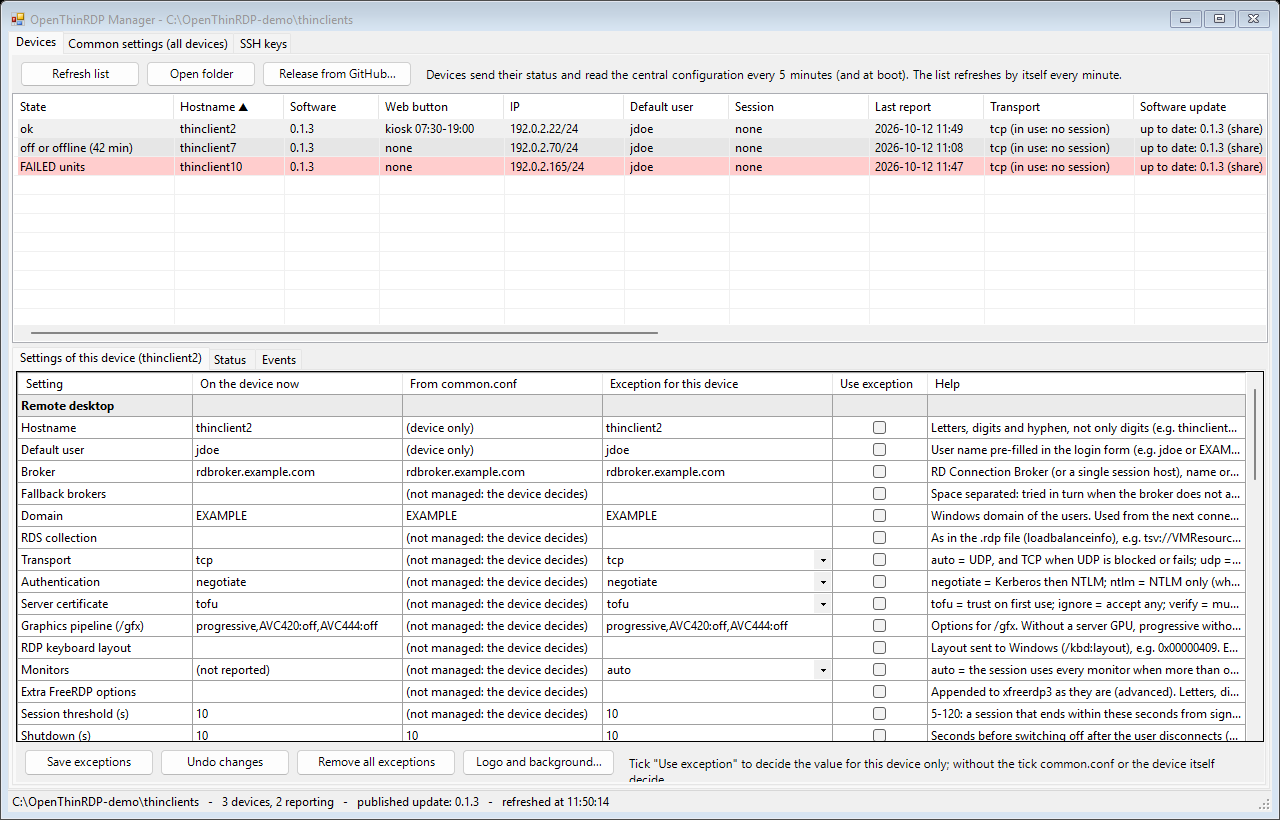
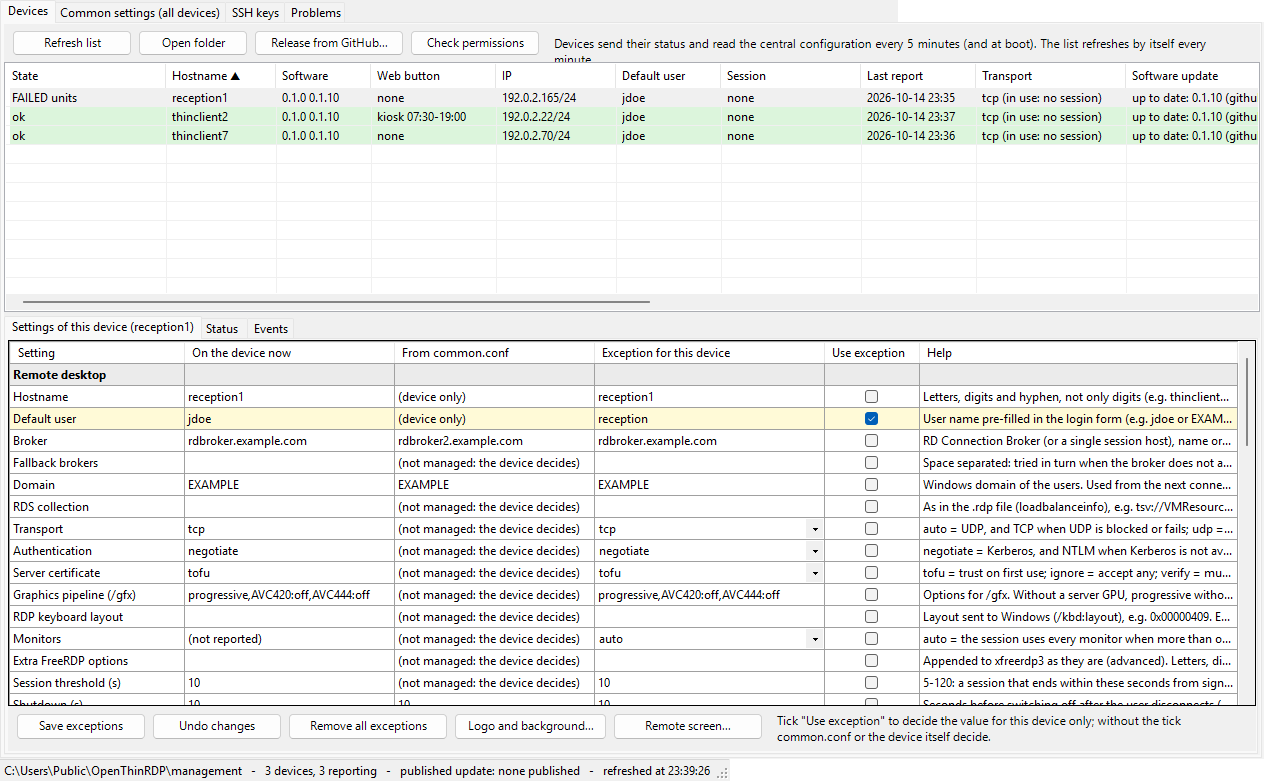
Docs: the manager and the remote screen
README: the manager gets a section of its own (every device at a glance,
settings for all or one, remote screen, problems, branding, keys, releases),
with a new screenshot of the manager and one of the remote screen in the
browser (demo data). management.md: Remote screen (needs, how it works, notice,
when it does not start); security.md; configuration.md and the manager:
REMOTE_SCREEN; changelog; noVNC in the license note.

Refs #19

diff --git a/README.it.md b/README.it.md
@@ -18,9 +18,10 @@ per Desktop remoto Windows, RDS e VDI: FreeRDP con il trasporto UDP che la versi
 
 OpenThinRDP trasforma piccoli PC e vecchi thin client in postazioni che si accendono direttamente sul form di
 accesso e si collegano a Windows: tramite il broker RDS al desktop o alla VM dell'utente, oppure direttamente a
-un host di sessione o a qualsiasi PC Windows con Desktop remoto attivo. Si gestiscono da una cartella condivisa:
-stato di ogni postazione, configurazione centrale, logo, aggiornamenti firmati. Niente agenti, niente server di
-gestione, niente cloud, nessuna licenza per postazione.
+un host di sessione o a qualsiasi PC Windows con Desktop remoto attivo. Si gestiscono da una cartella condivisa con un
+piccolo gestore Windows: stato di ogni postazione, configurazione centrale, logo, aggiornamenti firmati, e lo schermo
+di qualsiasi postazione nel browser. Niente agenti, niente server di gestione, niente cloud, nessuna licenza per
+postazione.
 
 È nato da una migrazione reale da un sistema thin client commerciale, su un parco di Dell OptiPlex 3000 Thin
 Client collegati a una VDI Windows 11 su Hyper-V, dove il sistema da cui deriva lavora ogni giorno.
@@ -125,10 +126,9 @@ Cosa serve al dispositivo: [Requisiti](#requisiti).
   mouse, touch, hub e schede di rete restano locali; i lettori di smart card passano dal canale smart card.
   I touch screen funzionano come touch in Windows. Con `USB_MODE=disks` le chiavette USB restano sul thin client e
   compaiono in Windows come unità.
-- **Gestione da una cartella condivisa (SMB).** Ogni postazione ci scrive stato e registro eventi; un gestore
-  Windows (italiano e inglese, nessuna installazione) li mostra, modifica la configurazione di tutte o di una
-  postazione, le chiavi SSH, logo e immagine di sfondo (per tutte o per una), e porta nella cartella le release di
-  GitHub. Le impostazioni della cartella vincono sulle modifiche locali.
+- **Gestione da una cartella condivisa (SMB) con un gestore Windows**, senza server: tutto il parco in una finestra,
+  impostazioni per tutte le postazioni o per una, e lo **schermo remoto** di qualsiasi postazione
+  ([il gestore](#il-gestore-tutto-il-parco-in-una-finestra)).
 - **Aggiornamenti firmati** che non interrompono mai una sessione: dalle release di GitHub (controllate ogni 3
   ore, installati in background, applicati quando la sessione finisce), o dalla vostra cartella quando decidete voi. Gli aggiornamenti di sicurezza Debian si installano da soli.
 - **Configurazione sulla postazione** (anche protetta da PIN): broker o PC, rete (DHCP, statica, Wi-Fi), cartella
@@ -145,15 +145,39 @@ Cosa serve al dispositivo: [Requisiti](#requisiti).
 - Interfaccia in italiano e inglese; altre lingue sono un file ciascuna.
 
 <p align="center">
-<img src="docs/screenshots/manager-devices.png" alt="Gestore: postazioni" width="49%">
-<img src="docs/screenshots/manager-common.png" alt="Gestore: impostazioni comuni" width="49%">
-</p>
-
-<p align="center">
 <img src="docs/screenshots/connecting.png" alt="Avvio del desktop con i passi reali" width="32%">
 <img src="docs/screenshots/end-of-session.png" alt="Fine sessione con conto alla rovescia" width="32%">
 <img src="docs/screenshots/update.png" alt="Aggiornamento in corso" width="32%">
 </p>
+
+## Il gestore: tutto il parco in una finestra
+
+`OpenThinRDP-Manager` è un solo script PowerShell per Windows 10/11 (italiano e inglese, niente da installare) che
+lavora sulla cartella condivisa in cui le postazioni scrivono il loro stato. Niente server, agenti o database: quello
+che si vede sono i file della cartella.
+
+<p align="center">
+<img src="docs/screenshots/manager-devices.png" alt="Gestore: ogni postazione, le sue impostazioni e il pulsante Schermo remoto" width="49%">
+<img src="docs/screenshots/remote-screen.png" alt="Schermo remoto di una postazione nel browser, con l'avviso sulla postazione" width="49%">
+</p>
+
+- **Ogni postazione a colpo d'occhio**: stato (un problema è colorato), versione del software e di FreeRDP,
+  indirizzo, utente e sessione, UDP o TCP in uso, segnale Wi-Fi, ultimo rapporto, stato ed eventi della postazione.
+- **Impostazioni per tutte le postazioni o per una**: quelle comuni ed eccezioni per una sola postazione, controllate
+  prima di salvarle (una postazione rifiuta tutta la configurazione se c'è un valore sbagliato: il gestore lo ferma
+  prima).
+- **Schermo remoto**: con un clic lo schermo di una postazione si apre nel browser e si può usare, per aiutare un
+  utente ("cosa c'è scritto?") o per accedere una volta a una dashboard su uno schermo della hall. Passa solo da SSH,
+  con la chiave degli amministratori e una password monouso: niente di nuovo in ascolto sulla rete e niente da
+  installare sul PC (lo `ssh.exe` di Windows e il browser). La postazione mostra *Assistenza remota attiva* finché
+  dura e lo registra nei suoi eventi; finisce chiudendo la finestra, o da sola dopo 2 ore, e `REMOTE_SCREEN=off` la
+  spegne ([dettagli](docs/management.md#remote-screen)).
+- **Problemi di tutto il parco**: i registri eventi di tutte le postazioni letti insieme e raggruppati, così "sei
+  postazioni stamattina non raggiungevano il broker" è una riga invece di sei registri.
+- **Logo e immagine di sfondo**, per tutte o per una; **chiavi SSH** degli amministratori; **release** di GitHub
+  copiate nella cartella per le postazioni che si aggiornano da lì; un **controllo dei permessi** della cartella.
+
+Ogni modifica finisce in un registro delle modifiche nella cartella. Guida: [docs/management.md](docs/management.md).
 
 ## Schermi che mostrano solo una pagina web
 
@@ -272,6 +296,7 @@ vedi [SECURITY.md](SECURITY.md). Come contribuire: [CONTRIBUTING.md](CONTRIBUTIN
 
 ## Licenza
 
-Apache License 2.0, vedi [LICENSE](LICENSE). OpenThinRDP usa FreeRDP (Apache 2.0) e pacchetti Debian con le loro
+Apache License 2.0, vedi [LICENSE](LICENSE). OpenThinRDP usa FreeRDP (Apache 2.0), il visore noVNC dello schermo remoto
+(incluso senza modifiche, MPL 2.0 e BSD, [rootfs/opt/openthinrdp/novnc](rootfs/opt/openthinrdp/novnc)) e pacchetti Debian con le loro
 licenze. Windows e Desktop remoto sono marchi di Microsoft; il progetto non è affiliato a Microsoft né ai
 produttori citati.

diff --git a/README.md b/README.md
@@ -18,8 +18,9 @@ for Windows Remote Desktop, RDS and VDI: FreeRDP with the UDP transport that ups
 
 OpenThinRDP turns small PCs and old thin clients into kiosks that boot straight into a sign-in form and connect
 to Windows: through an RD Connection Broker to the user's desktop or VM, or straight to a session host or to any
-Windows PC with Remote Desktop turned on. They are managed from a shared folder: status of every device, central
-settings, logo, signed updates. No agent, no management server, no cloud, no licence per device.
+Windows PC with Remote Desktop turned on. They are managed from a shared folder with a small Windows manager: status
+of every device, central settings, logo, signed updates, and the screen of any device in your browser. No agent,
+no management server, no cloud, no licence per device.
 
 It grew out of a real migration away from a commercial thin client OS, on a fleet of Dell OptiPlex 3000 Thin
 Clients connected to a Windows 11 VDI on Hyper-V, where the system it comes from runs every day.
@@ -121,10 +122,8 @@ What the device needs: [Requirements](#requirements).
   touch screens, hubs and network adapters stay local; smart card readers go through the smart card channel.
   Touch screens work as touch in Windows. With `USB_MODE=disks` USB sticks stay on the thin client and appear in
   Windows as drives.
-- **Managed from a shared folder (SMB).** Each device writes its status and event log there; a Windows manager
-  (English and Italian, no installation) shows them, edits the settings for all devices or one, the SSH keys,
-  logo and background picture (for all devices or one), and brings GitHub releases into the folder. Settings that come
-  from the folder win over local changes.
+- **Managed from a shared folder (SMB) with a Windows manager**, no server: the whole fleet in one window, settings
+  for all devices or one, and the **remote screen** of any device ([the manager](#the-manager-the-whole-fleet-from-one-window)).
 - **Signed updates** that never interrupt a session: from GitHub releases (checked every 3 hours, installed in
   the background, applied when the session is over), or from your folder when you decide.
   Debian security updates install by themselves.
@@ -142,15 +141,37 @@ What the device needs: [Requirements](#requirements).
 - English and Italian interface; more languages are one file each.
 
 <p align="center">
-<img src="docs/screenshots/manager-devices.png" alt="Manager: devices" width="49%">
-<img src="docs/screenshots/manager-common.png" alt="Manager: settings for all devices" width="49%">
-</p>
-
-<p align="center">
 <img src="docs/screenshots/connecting.png" alt="Desktop start with the real steps" width="32%">
 <img src="docs/screenshots/end-of-session.png" alt="End of session with a countdown" width="32%">
 <img src="docs/screenshots/update.png" alt="Software update in progress" width="32%">
 </p>
+
+## The manager: the whole fleet from one window
+
+`OpenThinRDP-Manager` is one PowerShell script for Windows 10/11 (English and Italian, nothing to install) that works
+on the shared folder the devices report to. No server, no agent, no database: what you see is the files in the folder.
+
+<p align="center">
+<img src="docs/screenshots/manager-devices.png" alt="Manager: every device, its settings and the Remote screen button" width="49%">
+<img src="docs/screenshots/remote-screen.png" alt="Remote screen of a device in the browser, with the notice on the device" width="49%">
+</p>
+
+- **Every device at a glance**: state (a problem in colour), software and FreeRDP version, address, user and session,
+  UDP or TCP in use, Wi-Fi signal, last report, the device's own status and event log.
+- **Settings for all devices or one**: the common settings, and exceptions for a single device, checked before they
+  are saved (a device rejects a whole configuration with a wrong value, the manager stops it first).
+- **Remote screen**: one click shows the screen of a device in your browser and lets you use it, to help a user
+  ("what does it say?") or to sign in once to a dashboard on a hall screen. It goes through SSH only, with the
+  administrators' key and a one-time password: nothing new listens on the network, and nothing is installed on your
+  PC (the `ssh.exe` that comes with Windows and your browser). The device shows *Remote assistance active* while it
+  lasts and records it in its events; it ends when you close the window, or by itself after 2 hours, and
+  `REMOTE_SCREEN=off` turns it off ([details](docs/management.md#remote-screen)).
+- **Problems across the fleet**: the event logs of every device read together and grouped, so "six devices could not
+  reach the broker this morning" is one line instead of six logs.
+- **Logo and background picture**, for all devices or one; **SSH keys** of the administrators; **releases** from
+  GitHub copied into the folder for devices that update from it; a **permissions check** of the folder.
+
+Every change is written to a change log in the folder. Guide: [docs/management.md](docs/management.md).
 
 ## Screens that only show a web page
 
@@ -264,6 +285,7 @@ Security problems: please report them privately, see [SECURITY.md](SECURITY.md).
 
 ## License
 
-Apache License 2.0, see [LICENSE](LICENSE). OpenThinRDP uses FreeRDP (Apache 2.0) and Debian packages under
+Apache License 2.0, see [LICENSE](LICENSE). OpenThinRDP uses FreeRDP (Apache 2.0), the noVNC viewer for the remote
+screen (included unmodified, MPL 2.0 and BSD, [rootfs/opt/openthinrdp/novnc](rootfs/opt/openthinrdp/novnc)) and Debian packages under
 their own licenses. Windows and Remote Desktop are trademarks of Microsoft; this project is not affiliated with
 Microsoft or with any vendor named above.

diff --git a/docs/management.md b/docs/management.md
@@ -133,6 +133,37 @@ With `SSH=on`, the `otradmin` account accepts only the keys in `/etc/openthinrdp
 (`image/site/authorized_keys`) or from `config\authorized_keys`. Removing `config\authorized_keys` after it
 was used revokes those keys and brings back the image ones.
 
+## Remote screen
+
+*Device settings > Remote screen...* shows the screen of the selected device in your browser and lets you use it:
+to see what a user sees, or to sign in once to a web page on a screen with no keyboard (the kiosk page keeps the
+sign-in in its profile).
+
+**What it needs**
+- On the device: `SSH=on`, your public key among the SSH keys, and `REMOTE_SCREEN=on` (the default).
+- On your PC: the OpenSSH client of Windows 10/11 (`ssh.exe`, an optional feature that is usually there) with your
+  private key in your user folder (`%USERPROFILE%\.ssh`), and a browser. Nothing else is installed.
+
+**How it works**
+1. Over SSH, as `otradmin`, the manager asks the device to start the remote screen (`remote-screen.sh start`). The
+   device starts x11vnc on its screen and the noVNC viewer with a small WebSocket bridge (`vncbridge.py`), both on
+   127.0.0.1 only and as the account that owns the screen, not root, with a one-time password.
+2. The manager opens an SSH tunnel from a free port of your PC to the viewer and opens your browser on it with that
+   password. The screen is reached only through the tunnel: nothing new listens on the network.
+3. While it is on, the device shows *Remote assistance active: an administrator can see this screen* in the top
+   right corner, and its event log records the start and the end.
+4. Closing the small window in the manager ends it on the device (`remote-screen.sh stop`); it also ends by itself
+   after 2 hours.
+
+During a remote session the screen is the Windows desktop the user is working on: tell the user, as the notice does.
+`REMOTE_SCREEN=off`, for all devices or one, turns it off. The viewer is noVNC 1.7.0, included unmodified
+(`/opt/openthinrdp/novnc`, MPL 2.0 and BSD licenses).
+
+**When it does not start** the manager shows why: SSH off on the device, no address reported yet, the key not
+accepted (put it in the SSH keys tab and in `%USERPROFILE%\.ssh`), or a device that has not received the version
+with the remote screen yet. A device reinstalled with the same address has a new SSH host key: remove the old one
+with `ssh-keygen -R <address>`.
+
 ## Signed updates
 
 Software updates (kiosk, FreeRDP with UDP, fixes) come from where `UPDATE_FROM` says:

diff --git a/CHANGELOG.md b/CHANGELOG.md
@@ -3,6 +3,18 @@
 Every release, newest first. **Security** marks what every device should get at once.
 Downloads and signed update packages: [releases](https://github.com/OpenThinRdp/openthinrdp/releases).
 
+## Unreleased
+
+- **Remote screen from the manager** ([#19](https://github.com/OpenThinRdp/openthinrdp/issues/19)). *Device settings >
+  Remote screen...* shows the screen of a device in your browser and lets you use it: to help a user, or to sign in
+  once to a dashboard on a screen with no keyboard. Over SSH only (administrators' key, one-time password, x11vnc and
+  the viewer on 127.0.0.1 as the account that owns the screen), nothing to install on the PC (Windows' `ssh.exe` and
+  the browser). The device shows *Remote assistance active* while it lasts and records it in its events; it ends with
+  the manager's window or after 2 hours. `REMOTE_SCREEN=off` turns it off. The update installs `x11vnc` (11 MB, needs
+  the Debian mirror once); the viewer, noVNC 1.7.0, is included unmodified, with a standard-library WebSocket bridge
+  instead of websockify (about 50 MB of dependencies).
+- README: the manager gets a section of its own, with the remote screen.
+
 ## 0.1.9 (2026-10-14)
 
 - **Started from the ISO, the latest version first** ([#12](https://github.com/OpenThinRdp/openthinrdp/issues/12)).

diff --git a/docs/security.md b/docs/security.md
@@ -28,6 +28,12 @@ keyboard is untrusted and that the management folder is readable by the devices 
   (root, 600); neither is ever reported or printed back (`save-config.sh --print` shows only their hash). The
   settings PIN hash is never written to the status files.
 
+- **Remote screen only through SSH.** x11vnc and the viewer's WebSocket bridge listen on 127.0.0.1 only, run as the
+  account that owns the screen (not root), start only when an administrator asks over SSH (`otradmin`, key login)
+  and need a one-time password. While the remote screen is on, the device says so on its screen and its event log
+  records start and end; it stops by itself after 2 hours. `REMOTE_SCREEN=off` turns it off
+  ([management.md](management.md#remote-screen)).
+
 ## Known limits
 
 - `smb.cred` is on every device: a stolen device gives its holder that account. Give it write access to

diff --git a/docs/configuration.md b/docs/configuration.md
@@ -84,6 +84,7 @@ own input is used. A device listed in `USB_REDIRECT` is still passed whole.
 | `UPDATE_FROM` | `github` | OpenThinRDP software updates: `github` (signed releases, checked every 3 hours), `share` (`updates\` of the management folder) or `off`, see [management.md](management.md#signed-updates) |
 | `UPDATE_GITHUB` | `OpenThinRdp/openthinrdp` | repository of the releases, `owner/repository` (for a fork) |
 | `SSH` | `off` | `on` = SSH for the `otradmin` account, key login only |
+| `REMOTE_SCREEN` | `on` | `off` = no remote screen from the manager ([management.md](management.md#remote-screen)); it needs `SSH=on` |
 
 ## Web button and kiosk page
 
